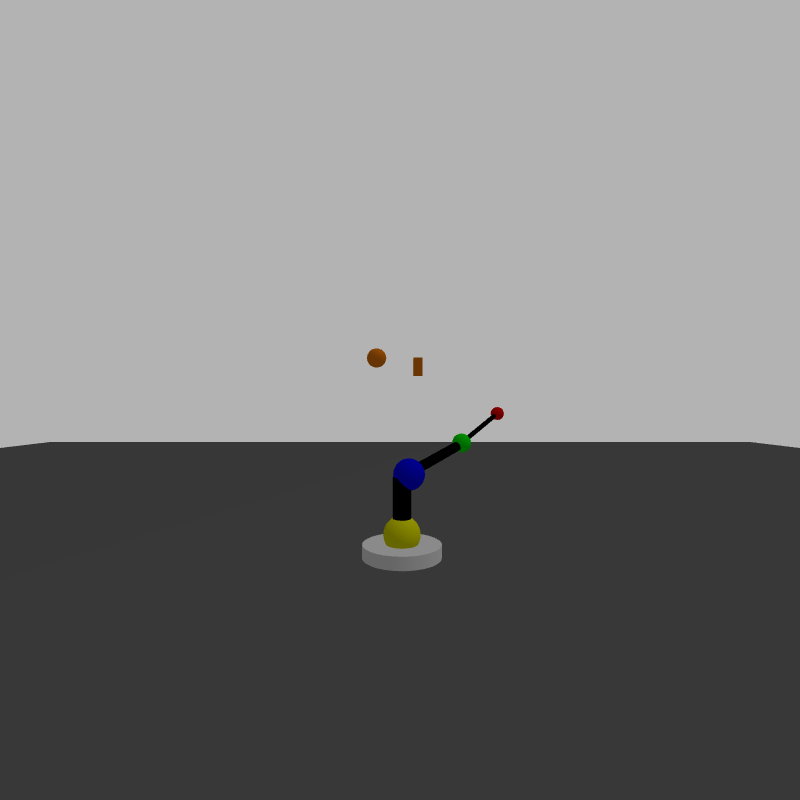
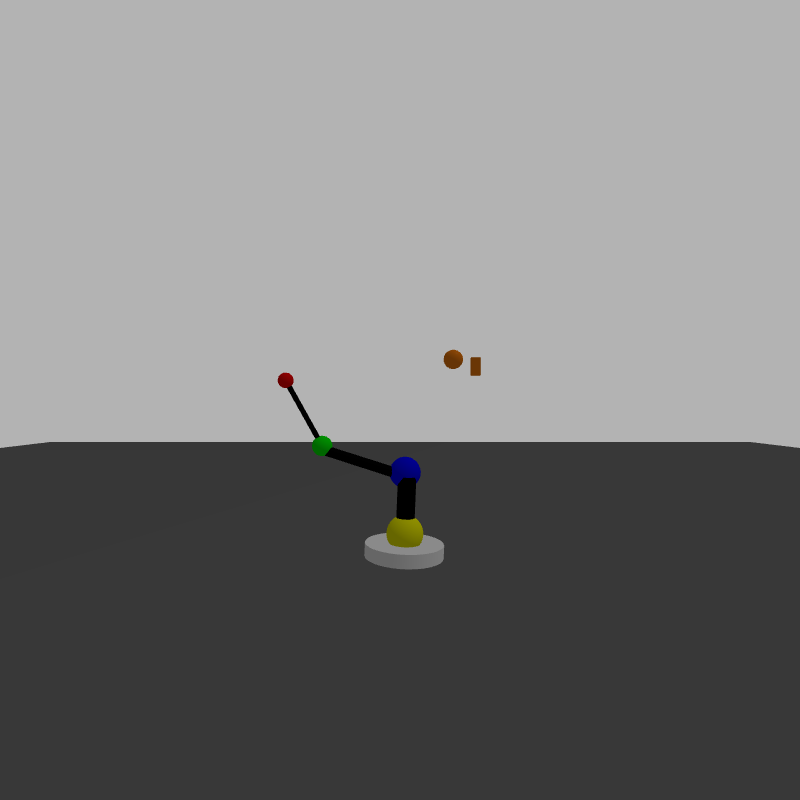
???

diff --git a/forward_kinematics.py b/forward_kinematics.py
@@ -34,9 +34,9 @@ def forward_kinematics(angle1, angle2, angle3, angle4):
     theta3 = angle3
     theta4 = angle4
     link1 = [2.5, theta1,0,0]
-    link2 = [0,theta2,0,-math.pi/2]
-    link3 = [3.5,theta3,0,math.pi/2]
-    link4 = [3.0,theta4,0,math.pi/2]
+    link2 = [0,angle2,0,-math.pi/2]
+    link3 = [3.5,angle3,0,math.pi/2]
+    link4 = [0,theta4,3.0,math.pi/2]
 
     link_list = [link1,link2,link3,link4];
 

diff --git a/catkin_ws/src/ivr_assignment/src/angle_calc.py b/catkin_ws/src/ivr_assignment/src/angle_calc.py
@@ -177,7 +177,7 @@ class angle_calculator:
 
 
     	angle2 = ((angley-drift2) - math.pi/2)
-    	angle3 = math.pi/2 - (anglex-drift3)
+    	angle3 = math.pi/2 - (anglex+drift3)
 
     	green2red = self.getVector(green_xyz,red_xyz)
     	angle4 = self.getAngle3D(green2red,blue2green) - drift4
